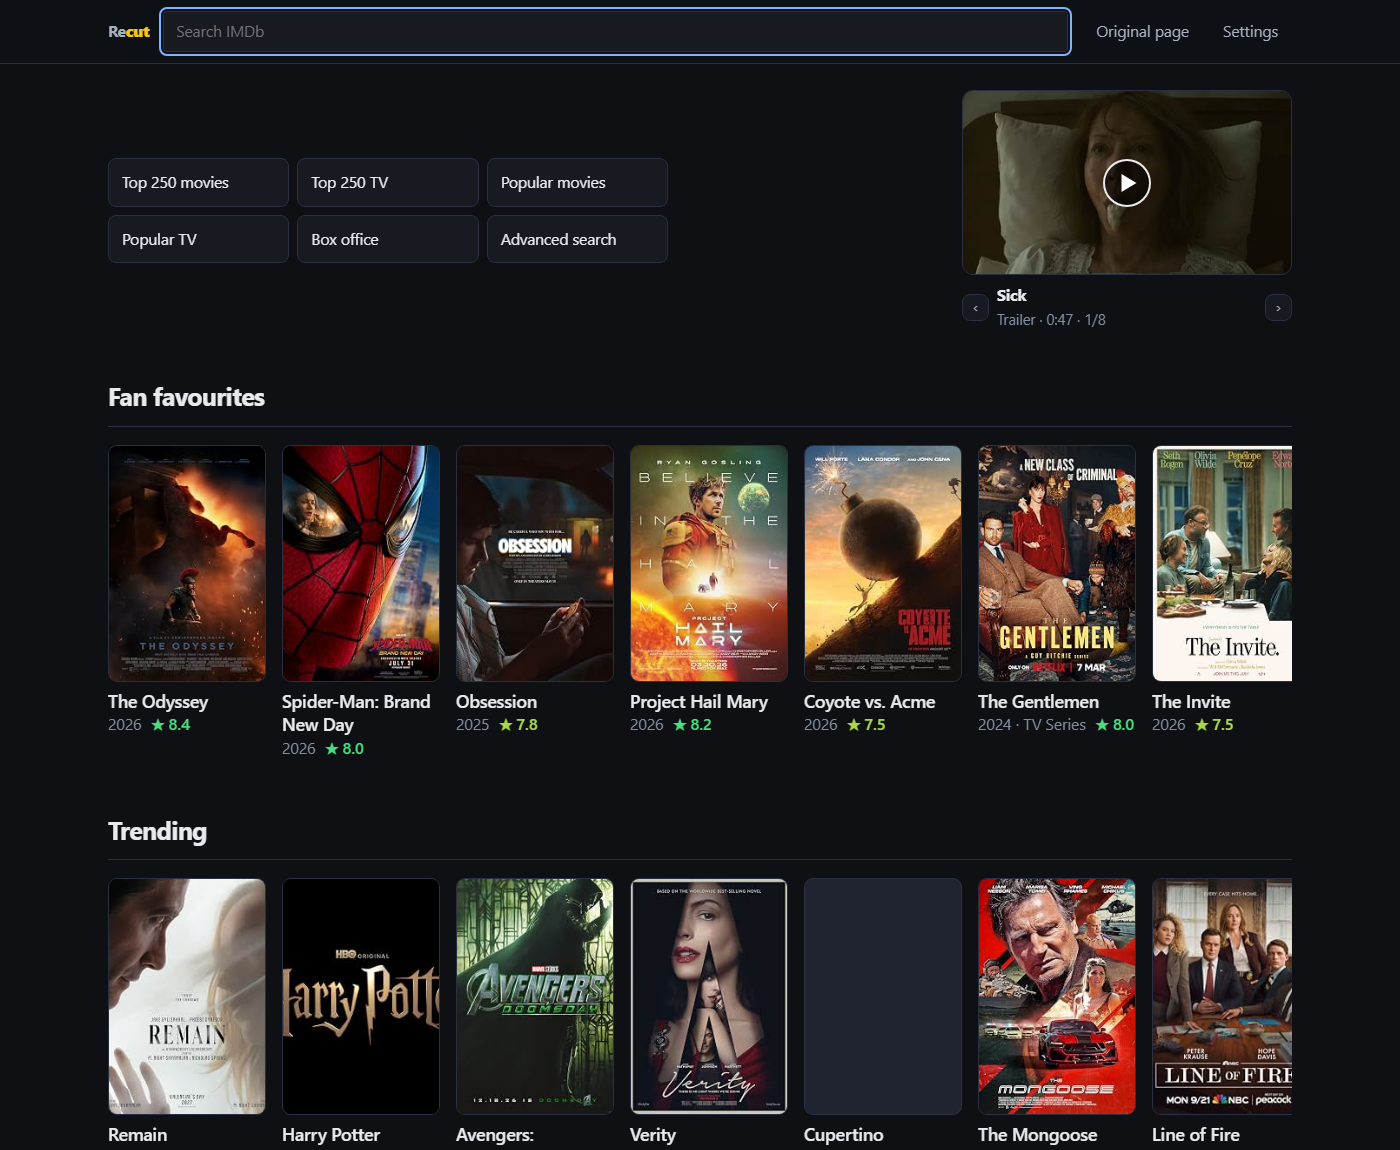
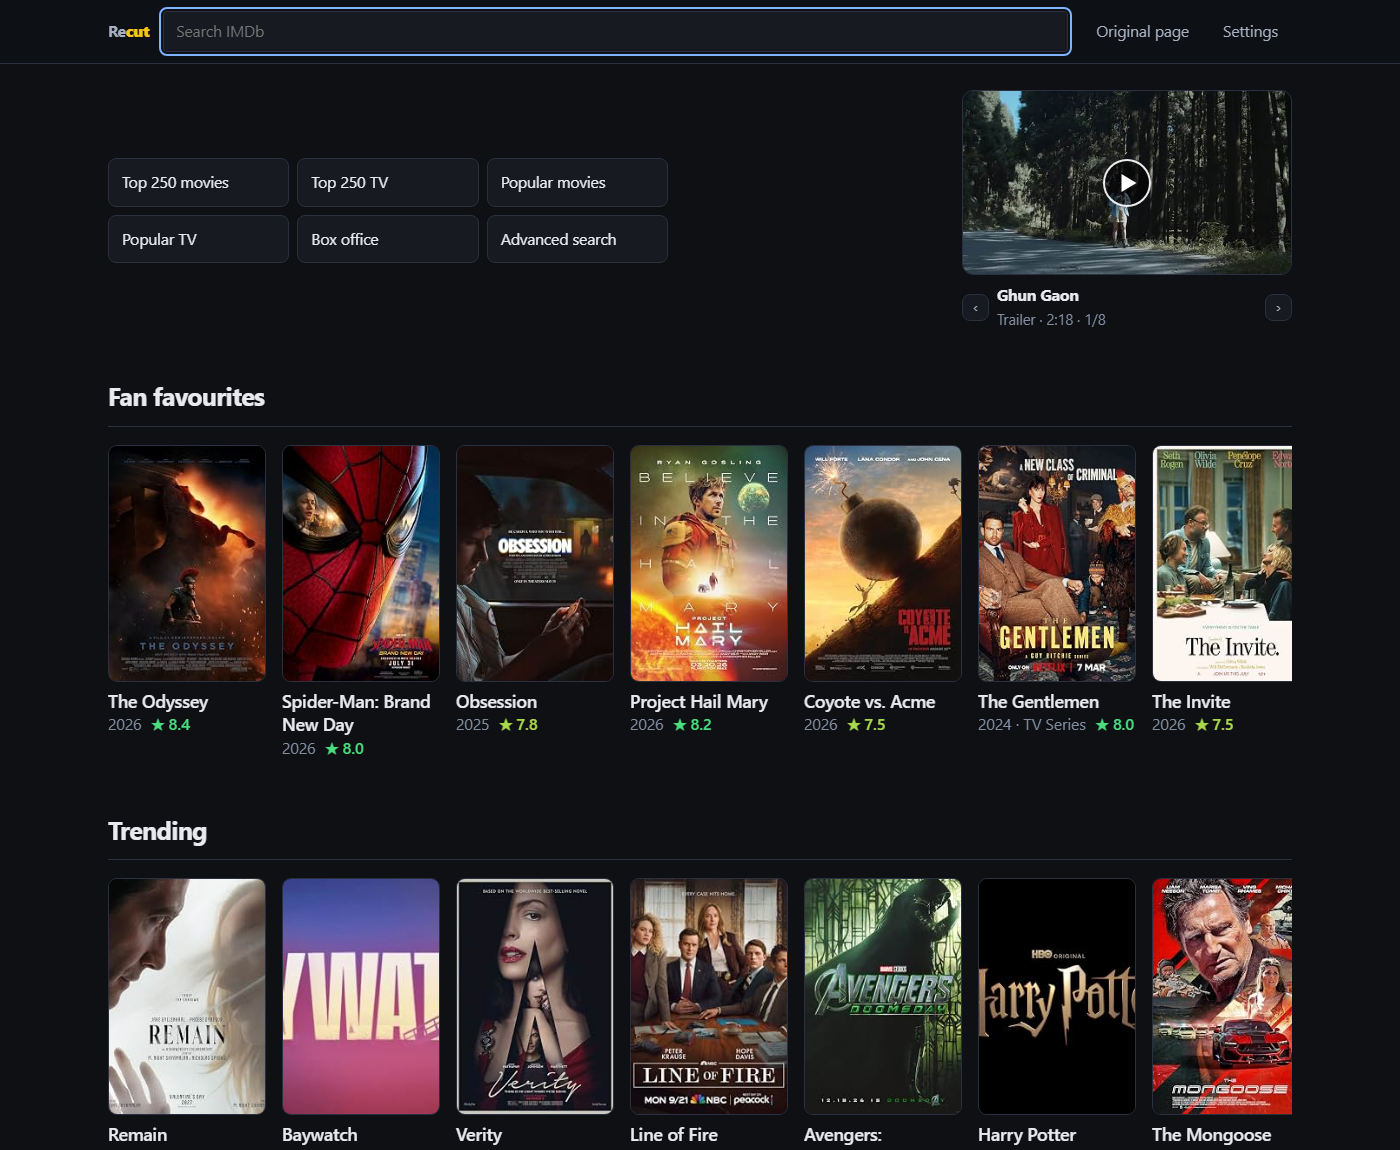
Fetch the homepage box office, posters and all
Two faults in one section.

The poster box was rendered empty: <span class="po"></span> with
nothing inside it, because nothing ever extracted an image for these
rows. The rule meant to hide it, `.imdbc-home .imdbc-result .po`, never
matched - the section is a sibling of .imdbc-home, not a descendant - so
a reserved empty box sat on screen on every visit.

And IMDb has stopped shipping the data. Read live from a signed-out
homepage, pageProps.pageQueryData.data now holds exactly one key: news.
No boxOfficeWeekendChart at all. It was the only real content that
payload carried, which is why the section was built on it.

It is fetched now, with the other homepage rows: boxOfficeWeekendChart
at the query root, 5 KB, posters, ratings and the weekend window, and a
See all through to the chart page.

"Total" was a US figure. /chart/boxoffice/ printed the payload's
lifetimeGross and called it total. For Spider-Man: Brand New Day that is
$935,181,631, which matches lifetimeGross(boxOfficeArea: DOMESTIC) to
the dollar, while WORLDWIDE is $2,451,432,584 - so the label claimed a
number two and a half times larger than the one on screen. Both surfaces
use the US figure now, read "$935M to date", and say "US" once in the
heading instead.

Dropped "24 cinemas" with it: the payload's cinemas.total said 24 for a
film taking $30M that weekend. Whatever it counts, it is not what the
label said.

The homepage cache key is bumped, since the cached value gained a
[…]

Changed region(s): [[0.1843, 0.7609, 0.9214, 1.0], [0.6757, 0.0609, 0.9214, 0.2739]]

diff --git a/recut.user.js b/recut.user.js
@@ -1,7 +1,7 @@
 // ==UserScript==
 // @name         Recut for IMDb
 // @namespace    https://github.com/MohsenBlur/imdb-recut
-// @version      2.12.0
+// @version      2.12.1
 // @description  Replaces IMDb pages with a dense, quiet layout: cast, user reviews (with Rotten Tomatoes critic + audience scores), season/episode counts and recommendations for titles; known-for and a full filmography with the characters played for people. Everything else is gone.
 // @author       MohsenBlur
 // @license      MIT
@@ -3020,7 +3020,7 @@ a.imdbc-score:hover { border-color: var(--brand, var(--imdbc-border)); text-deco
         const window = [grossing.timeWindowStartDate, grossing.timeWindowEndDate].filter(Boolean);
         return {
           heading: CHARTS[route.id] || 'Chart',
-          subtitle: window.length === 2 ? `Weekend of ${dayText(window[0])} – ${dayText(window[1])}` : '',
+          subtitle: window.length === 2 ? `US · weekend of ${dayText(window[0])} – ${dayText(window[1])}` : 'US',
           items: (grossing.edges || []).map((e, i) => {
             const node = (e && e.node) || {};
             const t = normaliseTitleCard((node.release && node.release.titles && node.release.titles[0]) || null);
@@ -3031,7 +3031,7 @@ a.imdbc-score:hover { border-color: var(--brand, var(--imdbc-border)); text-deco
             const weeks = node.release && node.release.weeksRunning;
             t.note = [
               weekend ? weekend + ' this weekend' : '',
-              lifetime && lifetime !== weekend ? lifetime + ' total' : '',
+              lifetime && lifetime !== weekend ? lifetime + ' to date' : '',
               weeks ? (weeks === 1 ? 'first week' : `week ${weeks}`) : ''
             ].filter(Boolean).join(' · ');
             return t;
@@ -3482,23 +3482,6 @@ a.imdbc-score:hover { border-color: var(--brand, var(--imdbc-border)); text-deco
     { path: '/search/title/?title_type=feature&sort=user_rating,desc&num_votes=25000,', label: 'Advanced search' }
   ];
 
-  function normaliseHome(pp) {
-    const data = (pp.pageQueryData && pp.pageQueryData.data) || {};
-    const chart = data.boxOfficeWeekendChart || {};
-    const money = moneyText;
-    return {
-      weekend: (chart.entries || []).map((e) => ({
-        id: e.title && e.title.id,
-        title: (e.title && e.title.titleText && e.title.titleText.text) || '',
-        typeText: (e.title && e.title.titleType && e.title.titleType.text) || '',
-        typeId: (e.title && e.title.titleType && e.title.titleType.id) || '',
-        gross: money(e.weekendGross),
-        lifetime: money(e.title && e.title.lifetimeGross),
-        cinemas: (e.title && e.title.cinemas && e.title.cinemas.total) || 0
-      })).filter((e) => e.id && e.title)
-    };
-  }
-
   // What people actually open imdb.com for. IMDb builds these client-side, so
   // they are fetched directly — one aliased query for all three rows.
   const HOME_CARD_FIELDS = `
@@ -3515,16 +3498,37 @@ a.imdbc-score:hover { border-color: var(--brand, var(--imdbc-border)); text-deco
   const fromEdges = (c) => edges(c).map(normaliseTitleCard).filter(Boolean);
 
   function fetchHomeRows() {
-    return memoizeDisk('home:rows', 60 * 60 * 1000, async () => {
+    // v2: the cached value gained a boxOffice branch. A stale one degrades to
+    // no section rather than an error, but a shape change gets a new key.
+    return memoizeDisk('home:rows:v2', 60 * 60 * 1000, async () => {
       const data = await gql(`{
         trending: trendingTitles(limit: 14) { titles { ${HOME_CARD_FIELDS} } }
         popMovies: chartTitles(first: 14, chart: { chartType: MOST_POPULAR_MOVIES }) { edges { node { ${HOME_CARD_FIELDS} } } }
         popTv: chartTitles(first: 14, chart: { chartType: MOST_POPULAR_TV_SHOWS }) { edges { node { ${HOME_CARD_FIELDS} } } }
+        boxOffice: boxOfficeWeekendChart(limit: 10) {
+          weekendStartDate weekendEndDate
+          entries {
+            weekendGross { total { amount currency } }
+            title { ${HOME_CARD_FIELDS} lifetimeGross(boxOfficeArea: DOMESTIC) { total { amount currency } } }
+          }
+        }
       }`);
+      const chart = (data && data.boxOffice) || {};
       return {
         trending: ((data && data.trending && data.trending.titles) || []).map(normaliseTitleCard).filter(Boolean),
         popMovies: fromEdges(data && data.popMovies),
-        popTv: fromEdges(data && data.popTv)
+        popTv: fromEdges(data && data.popTv),
+        boxOffice: {
+          from: chart.weekendStartDate || '',
+          to: chart.weekendEndDate || '',
+          entries: (chart.entries || []).map((e) => {
+            const t = normaliseTitleCard(e && e.title);
+            if (!t) return null;
+            t.gross = moneyText(e.weekendGross);
+            t.lifetime = moneyText(e.title && e.title.lifetimeGross);
+            return t;
+          }).filter(Boolean)
+        }
       };
     });
   }
@@ -3611,7 +3615,44 @@ a.imdbc-score:hover { border-color: var(--brand, var(--imdbc-border)); text-deco
           ${sectionHead(label, '', r.more ? html`<a class="imdbc-btn" href="${imdbUrl(r.more)}">See all</a>` : '')}
           <div class="imdbc-cards imdbc-scroller">${items.map(titleCard)}</div>
         </section>`);
-    }).join('');
+    }).join('') + boxOfficeSection(rows && rows.boxOffice);
+  }
+
+  /**
+   * The weekend takings. This used to be read out of the homepage payload, the
+   * one part of it that carried real content - but IMDb has since stopped
+   * shipping it (the payload is down to `news`), and the row's poster box was
+   * being rendered empty because nothing ever filled it. Fetched now, with the
+   * poster, the rating and the worldwide total.
+   */
+  function boxOfficeSection(box) {
+    if (!box || !box.entries.length) return '';
+    const window = [box.from, box.to].filter(Boolean);
+    return interpolate(html`
+      <section class="imdbc-sec">
+        ${sectionHead('Box office this weekend',
+          window.length === 2 ? `US · ${dayText(window[0])} – ${dayText(window[1])}` : 'US',
+          html`<a class="imdbc-btn" href="${imdbUrl('/chart/boxoffice/')}">See all</a>`)}
+        <div class="imdbc-results">
+          ${box.entries.map((t, i) => html`
+            <a class="imdbc-result ranked" href="${titleUrl(t.id)}">
+              <span class="rank">${i + 1}</span>
+              <span class="po">${thumb(t.poster, 96, 144, t.posterSize)
+                ? html`<img src="${thumb(t.poster, 96, 144, t.posterSize)}" alt="" loading="lazy" decoding="async">` : ''}</span>
+              <span class="main">
+                <span class="ti">${t.title}</span>
+                <span class="mt">
+                  ${[t.year, typeLabel(t), t.runtime, t.certificate].filter(Boolean).length
+                    ? html`<span>${[t.year, typeLabel(t), t.runtime, t.certificate].filter(Boolean).join(' · ')}</span>` : ''}
+                  ${typeof t.rating === 'number'
+                    ? html`<span class="rt ${ratingClasses(t.rating, 10, t.votes)}">★ ${t.rating.toFixed(1)}<small> ${compactNum(t.votes)}</small></span>` : ''}
+                  <span class="note">${[t.gross ? t.gross + ' this weekend' : '',
+                    t.lifetime && t.lifetime !== t.gross ? t.lifetime + ' to date' : ''].filter(Boolean).join(' · ')}</span>
+                </span>
+              </span>
+            </a>`)}
+        </div>
+      </section>`);
   }
 
   /**
@@ -3640,7 +3681,7 @@ a.imdbc-score:hover { border-color: var(--brand, var(--imdbc-border)); text-deco
         ${total > 1 ? nav(-1, 'Previous trailer', '\u2039') : ''}
         <span class="tx">
           <a class="ti" href="${v.titleId ? titleUrl(v.titleId) : '#'}">${v.title || v.name}</a>
-          <span class="sub">${v.name}${v.seconds ? html` \u00b7 ${videoTime(v.seconds)}` : ''}${total > 1 ? html` \u00b7 ${index + 1}/${total}` : ''}</span>
+          <span class="sub">${v.name}${v.seconds ? html` · ${videoTime(v.seconds)}` : ''}${total > 1 ? html` · ${index + 1}/${total}` : ''}</span>
         </span>
         ${total > 1 ? nav(1, 'Next trailer', '\u203a') : ''}
       </div>`;
@@ -3695,7 +3736,7 @@ a.imdbc-score:hover { border-color: var(--brand, var(--imdbc-border)); text-deco
     });
   }
 
-  function renderHome(root, home) {
+  function renderHome(root) {
     root.innerHTML = interpolate(html`
       ${topBar(imdbUrl('/'))}
       <div class="imdbc-wrap">
@@ -3711,27 +3752,6 @@ a.imdbc-score:hover { border-color: var(--brand, var(--imdbc-border)); text-deco
         <div data-imdbc-home-rows>
           <p class="imdbc-loading" style="margin-top:28px">Loading what's popular</p>
         </div>
-
-        ${home.weekend.length ? html`
-          <section class="imdbc-sec">
-            ${sectionHead('Box office this weekend', '')}
-            <div class="imdbc-results">
-              ${home.weekend.map((e, i) => html`
-                <a class="imdbc-result ranked" href="${titleUrl(e.id)}">
-                  <span class="rank">${i + 1}</span>
-                  <span class="po"></span>
-                  <span class="main">
-                    <span class="ti">${e.title}</span>
-                    <span class="mt">
-                      ${typeLabel(e) ? html`<span>${typeLabel(e)}</span>` : ''}
-                      ${e.gross ? html`<span><b>${e.gross}</b> this weekend</span>` : ''}
-                      ${e.lifetime ? html`<span>${e.lifetime} total</span>` : ''}
-                      ${e.cinemas ? html`<span>${num(e.cinemas)} cinemas</span>` : ''}
-                    </span>
-                  </span>
-                </a>`)}
-            </div>
-          </section>` : ''}
       </div>`);
 
     wireTopBar(root);
@@ -3805,7 +3825,7 @@ a.imdbc-score:hover { border-color: var(--brand, var(--imdbc-border)); text-deco
     }
     box.innerHTML = interpolate(html`<div class="panel">
       <div class="head">
-        <span><b>${roles.name}</b> <span class="imdbc-note">\u00b7 ${num(roles.characters.length)} part${roles.characters.length === 1 ? '' : 's'}</span></span>
+        <span><b>${roles.name}</b> <span class="imdbc-note">· ${num(roles.characters.length)} part${roles.characters.length === 1 ? '' : 's'}</span></span>
         <button type="button" class="imdbc-btn imdbc-btn-ghost" data-imdbc-roles-close>Close</button>
       </div>
       <div class="list">${roles.characters.map((c) => html`<span>${c}</span>`)}</div>
@@ -4837,7 +4857,7 @@ a.imdbc-score:hover { border-color: var(--brand, var(--imdbc-border)); text-deco
     try {
       const pp = await getPageProps(route);
       if (seq !== renderSeq) return;
-      if (route.kind === 'home') renderHome(root, normaliseHome(pp));
+      if (route.kind === 'home') renderHome(root);
       else if (route.kind === 'title') renderTitle(root, normaliseTitle(pp));
       else if (route.kind === 'search') renderSearch(root, normaliseSearch(pp, route));
       else if (route.kind === 'titleRatings') renderTitleRatings(root, normaliseEntity(pp), normaliseRatings(pp));

diff --git a/RECON.md b/RECON.md
@@ -521,3 +521,48 @@ The overlay is appended into `#imdbc-root`, not `<body>` - the same trap the
 photo lightbox fell into, where the takeover's own body-hiding rule creates the
 element `display:none`. `load-test.mjs` asserts the append target, all three
 dismissals, and that the affordance is outside the clamp.
+
+## 12. The homepage box office (observed 2026-09-15)
+
+Two faults, one section.
+
+**The poster box was rendered empty.** `<span class="po"></span>` with nothing
+inside it: nothing ever extracted an image for these rows. A rule meant to hide
+the box, `.imdbc-home .imdbc-result .po { display: none }`, never matched -
+the section is a sibling of `.imdbc-home`, not a descendant - so the reserved
+box stayed on screen, empty, on every visit.
+
+**And IMDb has stopped shipping the data.** Read live from a signed-out
+homepage, `pageProps.pageQueryData.data` now holds exactly one key: `news`.
+No `boxOfficeWeekendChart` at all. It was the only real content the homepage
+payload carried, which is why the section existed in that form.
+
+It is fetched now, alongside the other homepage rows:
+
+```
+boxOfficeWeekendChart(limit: 10) {
+  weekendStartDate weekendEndDate
+  entries { weekendGross { total { amount currency } }
+            title { … lifetimeGross(boxOfficeArea: DOMESTIC) { total { amount currency } } } } }
+```
+
+5 KB, and `boxOfficeArea` is required on `lifetimeGross` (the error names it).
+
+### "Total" was a US figure
+
+The `/chart/boxoffice/` page prints the payload's `lifetimeGross`, which it
+labelled "total". Measured against the API for Spider-Man: Brand New Day:
+
+| | |
+| --- | --- |
+| the payload's figure | $935,181,631 |
+| `lifetimeGross(boxOfficeArea: DOMESTIC)` | $935,181,631 |
+| `lifetimeGross(boxOfficeArea: WORLDWIDE)` | $2,451,432,584 |
+
+Identical to the dollar. So it is US-only, and "total" claimed a number two and
+a half times larger than the one shown. Both surfaces use the US figure now,
+read "$935M to date", and say "US" once in the heading.
+
+Also dropped: "24 cinemas", from the payload's `cinemas.total`, which said 24
+for a film taking $30M that weekend. Whatever that field counts, it is not what
+the label said.
